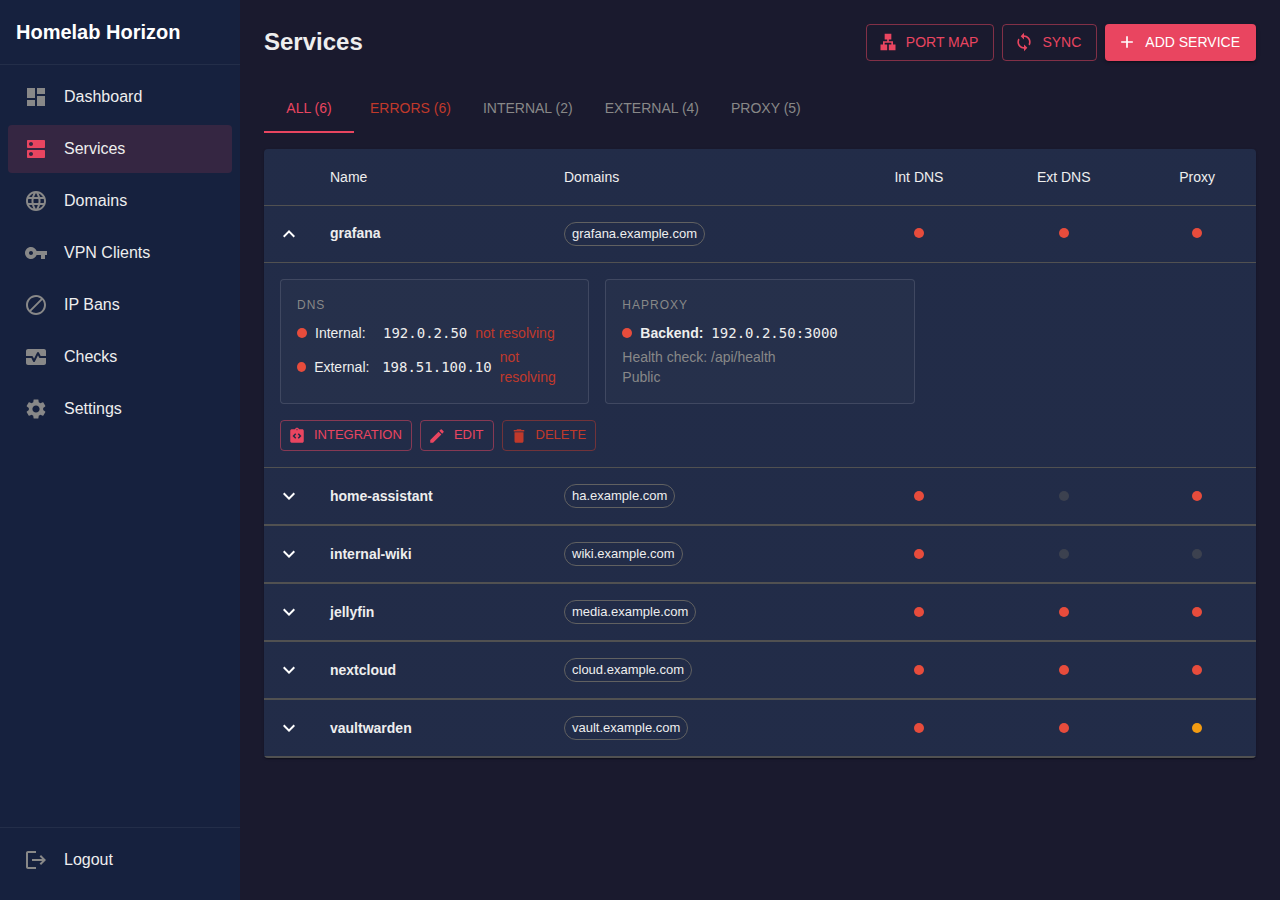
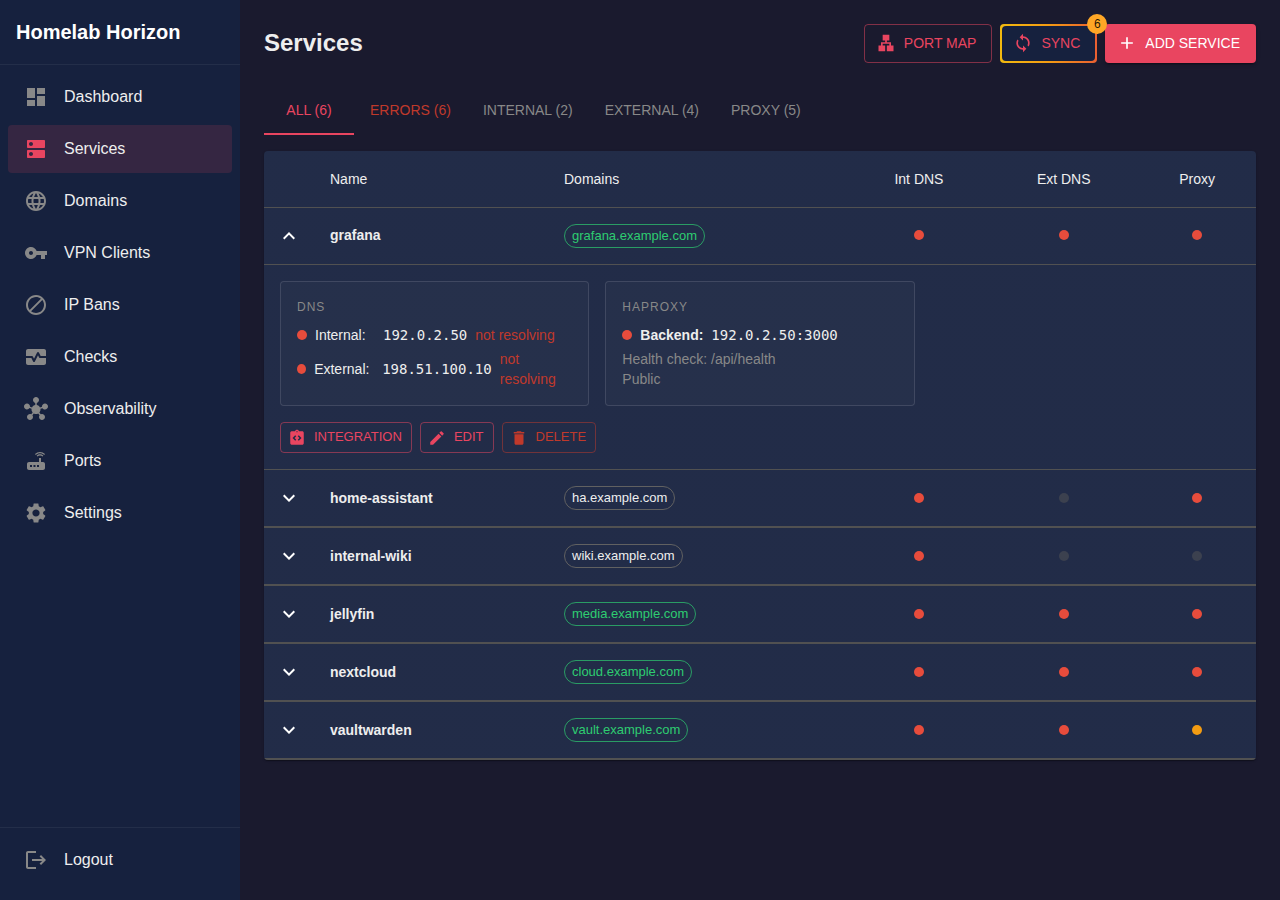
docs: refresh screenshots and cover the features added since May
The screenshots were cut in May (13292ed); ~100 commits have landed since,
including two whole pages the README never mentioned. It had zero references
to Observability, Prometheus, exporters, or the Ports page, and the
Web Interface table listed neither route.

Screenshots: adds observability, ports, and the service-delete dialog, and
regenerates the rest. The demo config was thin enough that the new pages would
have shot empty, so it now carries declared hosts, all three exporter modes
(port/static/service), scrape exclusions, a port-exclusion range, zone TXT
records, per-domain SSL sub-zones, and a service opted into metrics. That also
makes the existing shots more representative — the Domains page now shows real
HTTPS coverage and SSL gaps rather than a single bare wildcard.

Bans is dropped from the capture list: nothing seeds a ban, so it only ever
shot an empty table. VPN and Checks are still captured but deliberately not
shown in the README — the hermetic container has no live WireGuard peers and
cannot reach the documentation IPs it checks, so both render empty or all-red
and would misrepresent the pages. Said so inline rather than leaving it a
silent omission.

README: new Observability and Ports sections, delete-orphans in the hz
section, and the Features list extended with Prometheus discovery, port
allocation, the operator CLI, honest deletes, and pending-change tracking.
Every command shown was run against the demo container first, and the
[…]

diff --git a/README.md b/README.md
@@ -38,11 +38,40 @@ Homelab Horizon consolidates all of this into a single web UI:
 ### Service Detail
 ![Service Detail](docs/screenshots/services-detail.png)
 
+### Deleting a service
+Deleting doesn't silently strand the state a service didn't own — the zone
+SubZone that gave its domain HTTPS, and the record published at your DNS
+provider. Both are listed, and the delete won't proceed until you say whether
+to retract them.
+
+![Delete Service](docs/screenshots/services-delete.png)
+
+### Domains
+Every domain hz knows, with internal DNS, external DNS, proxy and HTTPS state
+side by side — plus the SSL coverage gaps and the zone records it publishes.
+
+![Domains](docs/screenshots/domains.png)
+
+### Observability
+Declare hosts and exporter jobs, then hand Prometheus a generated scrape config.
+
+![Observability](docs/screenshots/observability.png)
+
+### Ports
+Reserved ports per host, and the denylist `hz ports next` skips when allocating.
+
+![Ports](docs/screenshots/ports.png)
+
 ### Port Map
 ![Port Map](docs/screenshots/port-map.png)
 
 ### Settings
 ![Settings](docs/screenshots/settings.png)
+
+> The VPN and Checks pages are captured too (`docs/screenshots/{vpn,checks}.png`)
+> but aren't shown here — the hermetic container has no live WireGuard peers and
+> can't reach the documentation IPs it checks, so both render as empty or all-red
+> and would misrepresent the pages.
 
 > Regenerate with `make screenshots` — boots a hermetic Docker container
 > (daemons off, RFC 5737 documentation IPs, no outbound network) and captures
@@ -56,6 +85,11 @@ Homelab Horizon consolidates all of this into a single web UI:
 - **Reverse Proxy**: HAProxy with automatic Let's Encrypt wildcard SSL certificates
 - **Static Sites**: Serve a folder of files as a service — hz hosts it directly, HAProxy routes to it with the same auto SSL/DNS
 - **Service Monitoring**: Health checks with ntfy push notifications
+- **Prometheus Discovery**: Declare hosts and exporter jobs; hz serves a generated scrape config and probes every target
+- **Port Allocation**: Server-authoritative reservations and denylist, so `hz ports next` never hands out a port something already uses
+- **Operator CLI (`hz`)**: Service CRUD, HTTPS per domain, hosts, exporters, sync — with a preview of what a mutation actually changes
+- **Honest Deletes**: Deleting a service reports the SubZone and DNS record it would strand, and makes you choose
+- **Unsynced-Change Tracking**: `hz pending` and a badge in the UI show what's edited but not yet published
 - **Self-Service Onboarding**: Users redeem invite tokens to get VPN configs
 - **IP Banning**: Per-service IP bans with timeout support
 - **Rolling Deploys**: Blue-green deployment support with hz-client CLI
@@ -200,6 +234,9 @@ hz domain list                       # every domain: service, zone, HTTPS covera
 hz domain ssl add ebb.example.com    # give one domain HTTPS
 hz domain ssl rm ebb.example.com --confirm
                                      # drop it back to plain HTTP
+hz service delete ebb                # reports what the delete would strand, then refuses
+hz service delete ebb --delete-orphans --sync
+                                     # ...also retract the SubZone + published DNS record
 hz sync --wait                       # trigger a global sync, block until done
 hz pending                           # show unsynced config changes
 hz ports list --host 192.168.1.76    # reserved ports on a host + suggested free ports
@@ -209,6 +246,29 @@ hz schema service                    # dump the request schema (reflected from a
 ```
 
 `hz --help` lists every command and flag; `hz schema service` prints the exact JSON request shape the server accepts (generated from the shared `internal/apitypes` structs, so it never drifts).
+
+Deleting is the one mutation that can leave state behind, because a service
+doesn't own everything it depends on. The zone SubZone giving its domain HTTPS
+lives on the *zone*, and the record published at your DNS provider lives at the
+*provider* — neither disappears with the service. `hz service delete` prints
+both and stops until you pick `--delete-orphans` or `--keep-orphans`:
+
+```
+$ hz service delete grafana
+Deleting "grafana" leaves behind:
+
+  ! https grafana.example.com            SubZone "grafana" on zone example.com — keeps a cert SAN and an http->https redirect for a host nothing serves
+  ! dns   grafana.example.com            A 198.51.100.10 at the DNS provider — stays live and keeps resolving after the delete
+  . dns   grafana.example.com            dnsmasq A 192.0.2.50 — removed automatically on the next sync
+
+  ! needs a decision   . goes away on sync   = shared, left alone
+
+error: this delete strands 2 item(s) listed above — re-run with --delete-orphans or --keep-orphans
+```
+
+Coverage inherited from a wildcard SubZone, and any SubZone another service
+still uses, are reported as shared and never offered for deletion. A service
+that strands nothing deletes without asking anything.
 
 ### Static Sites
 
@@ -263,6 +323,57 @@ curl -sO "$HZ_URL/admin/haproxy/hz-client" && chmod +x hz-client
 Deploys are **atomic**: the upload is extracted into a fresh release directory, then `static_root` (an hz-managed symlink) is repointed in a single rename — requests never see a half-written site. The last few releases are retained for `rollback`. Uploads are received by the root process, validated (no path traversal, no symlinks, size/file caps), and the files are owned by `nobody` so the unprivileged file server can read them.
 
 This is how the project hosts its own landing page (`docs/`): a static service on the public domain, served by hz, with auto SSL.
+
+## Observability
+
+hz already knows every host and backend it routes to, so it can hand Prometheus
+a scrape config instead of you maintaining one by hand. Declare the boxes it
+*doesn't* route to (a NAS, a DB server), add exporter jobs, and pull the result.
+
+```bash
+hz host add --name nas --ip 192.0.2.100 --label role=storage
+hz exporter add --job node --mode port --port 9100          # node_exporter on every known host
+hz exporter add --job postgres --mode static --target 192.0.2.110:9187
+hz exporter list                                            # jobs, then live targets with up/down
+```
+
+Three ways a job generates targets:
+
+| Mode | Targets |
+|------|---------|
+| `port` | one port expanded across hosts (`--host '*'` = every host hz knows) |
+| `service` | one target per service backend (per slot for blue-green), for services not already opted in |
+| `static` | the explicit `--target` list |
+
+Per-service metrics are opt-in and probed before they're served, so a service
+only appears once hz has actually seen its endpoint respond:
+
+```bash
+hz service edit grafana --metrics --metrics-path /metrics --sync
+```
+
+The generated config is served at `/integration/prometheus/scrape.yaml` and
+`/integration/prometheus/targets.json`, authorized by a **scrape token** that is
+separate from the admin token — a scraper never holds admin rights. The
+Observability page has copy-run snippets for both a one-time pull and a cron
+that keeps it current.
+
+## Ports
+
+Picking a backend port by hand is how you end up with two services on 8080. hz
+keeps a server-authoritative map of what's reserved — derived from service
+backends, HAProxy and WireGuard — plus a built-in denylist of common ports and
+whatever ranges you exclude yourself.
+
+```bash
+hz ports next --host 192.0.2.50              # next free port, denylist applied
+hz ports next --host 192.0.2.50 --count 2    # a blue-green pair
+hz ports list --host 192.0.2.50              # what's reserved, and what's free
+```
+
+`port_exclusions` in the config adds your own ranges on top of the built-in
+list. The Ports page shows both tabs — reservations per host, and the exclusions
+that allocation skips.
 
 ## High Availability
 
@@ -483,11 +594,13 @@ Alternatively, pass the full config as JSON via the `HZ_CONFIG` environment vari
 |------|-------------|
 | `/app/dashboard` | Overview dashboard |
 | `/app/services` | Service management — domains, DNS, proxy, health status |
-| `/app/domains` | External DNS records and sync status |
+| `/app/domains` | Every domain's DNS/proxy/HTTPS state, SSL gaps, and zone records |
 | `/app/vpn` | VPN client management — create clients, QR codes, invites |
 | `/app/bans` | IP ban management |
 | `/app/checks` | Health check status and notifications |
-| `/app/settings` | Zones, HAProxy, SSL, health checks, system config |
+| `/app/observability` | Prometheus topology — hosts, exporter jobs, scrape config wiring |
+| `/app/ports` | Port reservations per host and the allocation denylist |
+| `/app/settings` | Zones, HAProxy, SSL, health checks, system health, hz CLI install |
 
 ## DNS Providers
 
